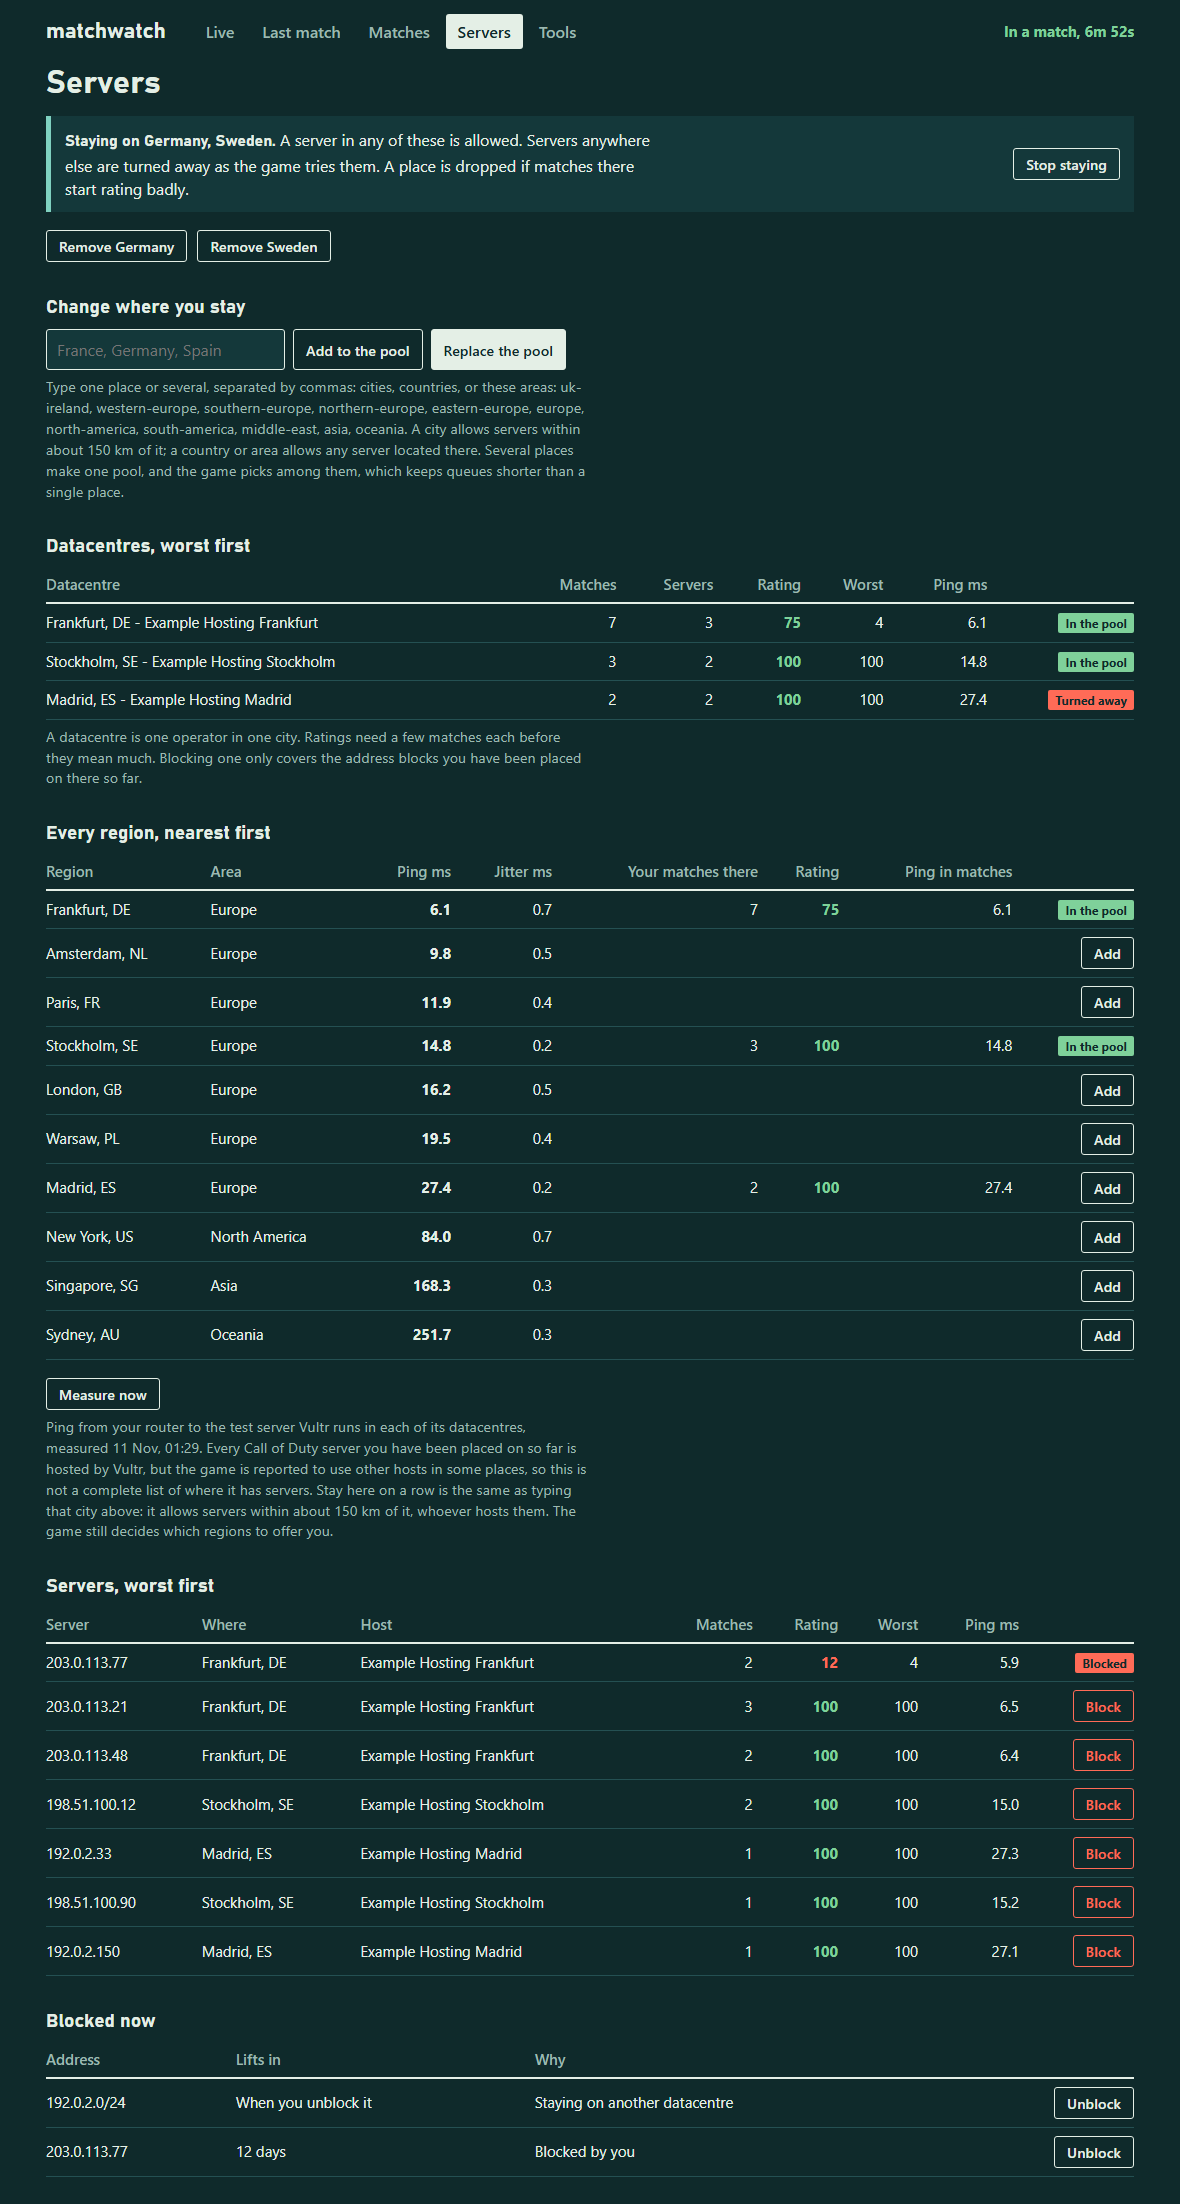
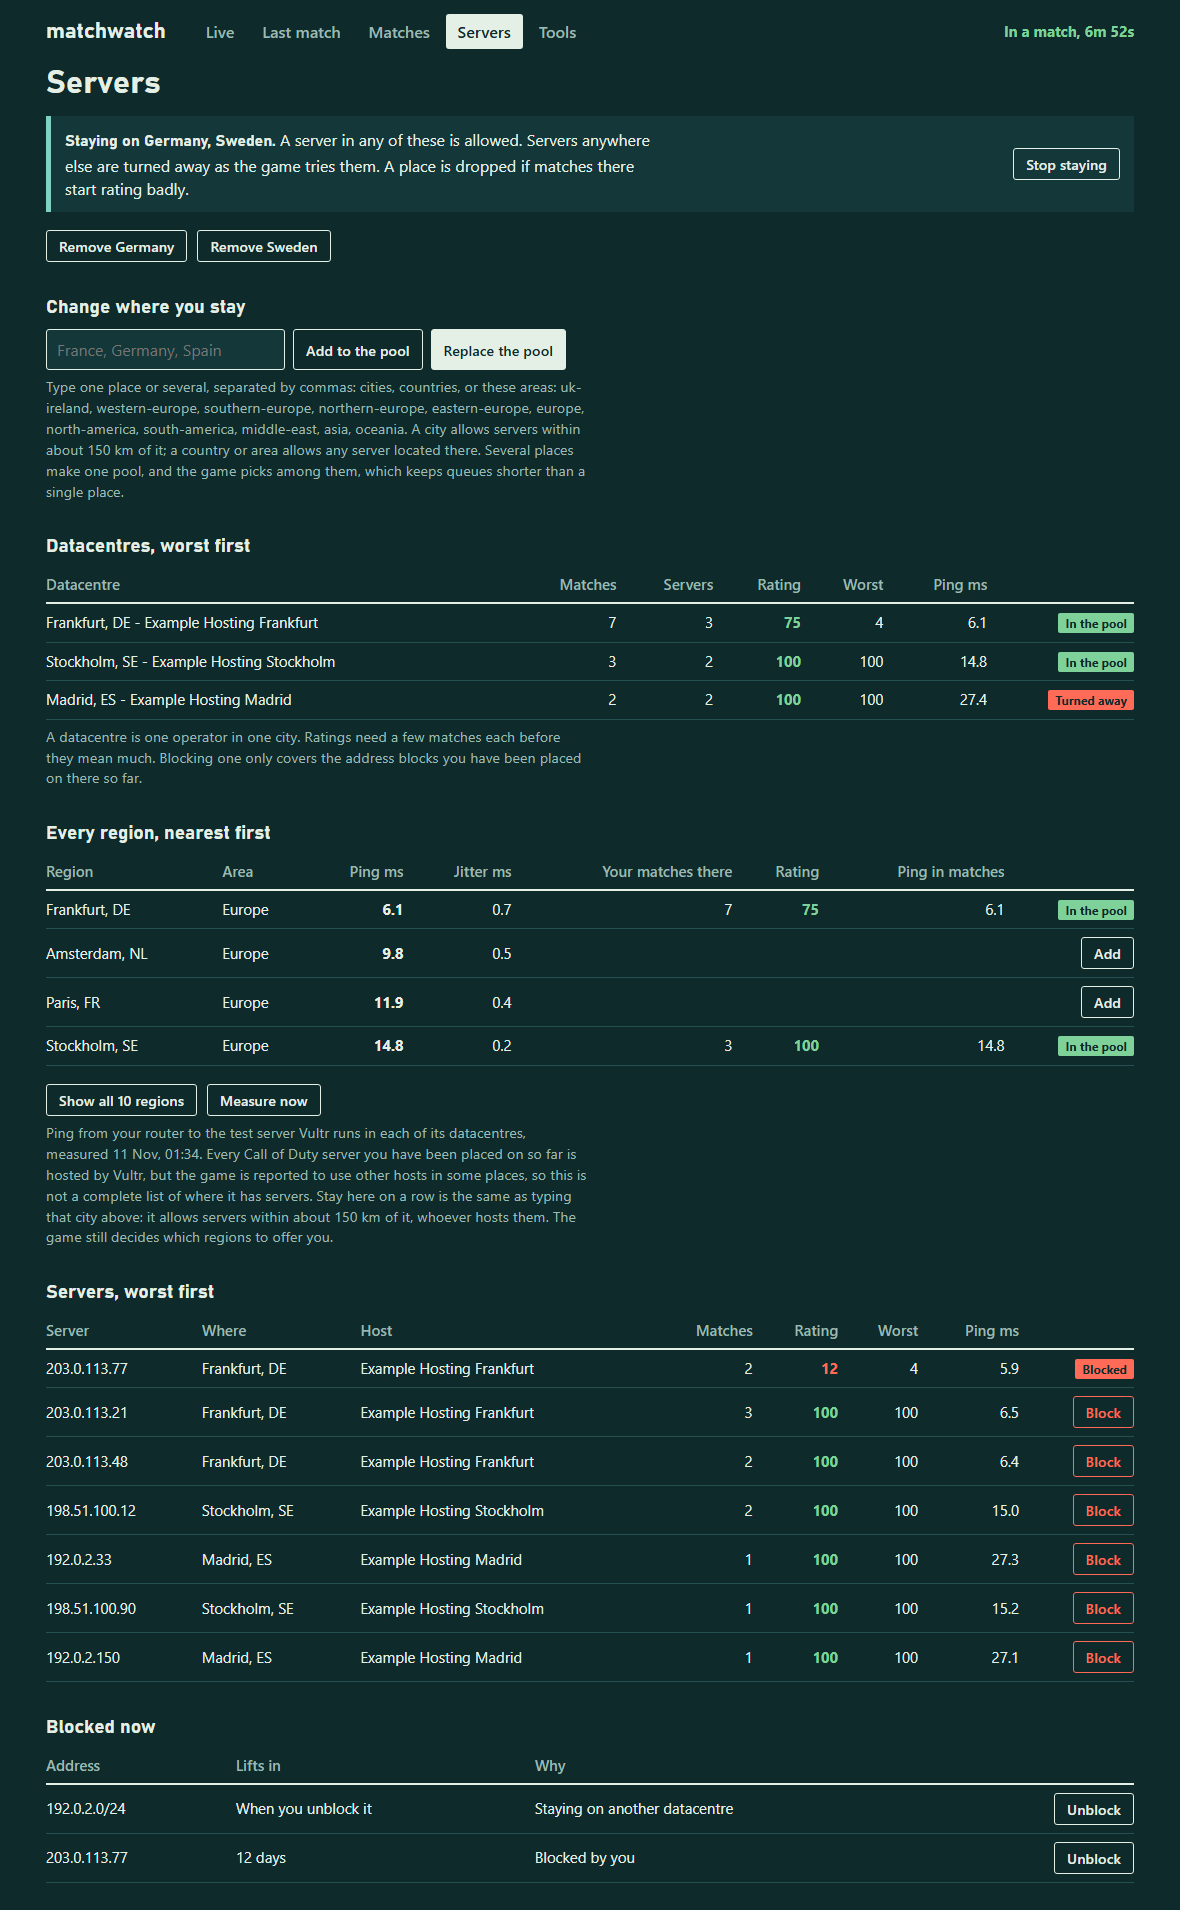
0.10.1: shorter region list, no scroll jump, match-started alert
- Servers page: the region table shows the nearest four, with a button
  to show all of them.
- The 15-second data refresh redrew the page and scrolled to the top.
  It now keeps the reader's place, and waits while the places box has
  text in it.
- New setting "Alert when a match starts": tells the phone when the
  game itself begins, with the server's location and ping.
- Screenshots regenerated from invented data.

diff --git a/luci-app-matchwatch/htdocs/luci-static/resources/matchwatch/dashboard.js b/luci-app-matchwatch/htdocs/luci-static/resources/matchwatch/dashboard.js
@@ -313,7 +313,7 @@ function pageMatch(id) {
 }
 
 // ---------- lists
-var gameFilter = "", hourFilter = -1;
+var gameFilter = "", hourFilter = -1, regionsAll = false;
 function hourOf(m) { return new Date(m.start * 1000).getHours(); }
 function hh(i) { return (i < 10 ? "0" : "") + i + ":00"; }
 function recap() {
@@ -444,14 +444,19 @@ function pageServers() {
 	if (!rg.length) view.appendChild(h("p", { cls: "empty", text: "Not measured yet." }));
 	else {
 		var tr = table([["Region"], ["Area"], ["Ping ms", "num"], ["Jitter ms", "num"], ["Your matches there", "num"], ["Rating", "num"], ["Ping in matches", "num"], ["", ""]]);
-		rg.forEach(function (r) {
+		(regionsAll ? rg : rg.slice(0, 4)).forEach(function (r) {
 			tr.lastChild.appendChild(row([[r.city + ", " + r.cc], [r.area], [r.ping == null ? "No reply" : fmt(r.ping, 1), "num s"], [r.jit == null ? "" : fmt(r.jit, 1), "num"],
 				[r.matches ? String(r.matches) : "", "num"], [r.rating == null ? "" : String(r.rating), "num s " + cls(r.rating)], [r.matchping == null ? "" : fmt(r.matchping, 1), "num"],
 				(function () { var td = h("td", { cls: "act" }); if (r.stay) td.appendChild(h("span", { cls: "tag keep", text: "In the pool" })); else if (r.ping != null && stays.length) td.appendChild(act("Add", "stayadd", null, { extra: "&region=" + r.code })); else if (r.ping != null) td.appendChild(act("Stay here", "stay", null, { extra: "&region=" + r.code, confirm: "Confirm: turn the others away" })); return td; })()]));
 		});
 		view.appendChild(h("div", { cls: "tablewrap" }, tr));
 	}
-	view.appendChild(h("div", { cls: "actions" }, act("Measure now", "regions", null, { done: function () { toast("Regions measured."); } })));
+	var more = null;
+	if (rg.length > 4) {
+		more = h("button", { type: "button", text: regionsAll ? "Show the nearest 4" : "Show all " + rg.length + " regions" });
+		more.addEventListener("click", function () { var y = window.scrollY; regionsAll = !regionsAll; pageServers(); window.scrollTo(0, y); });
+	}
+	view.appendChild(h("div", { cls: "actions" }, more, act("Measure now", "regions", null, { done: function () { toast("Regions measured."); } })));
 	view.appendChild(h("p", { cls: "note", text: "Ping from your router to the test server Vultr runs in each of its datacentres" + (rg.length ? ", measured " + when(rg[0].ts) : "") + ". Every Call of Duty server you have been placed on so far is hosted by Vultr, but the game is reported to use other hosts in some places, so this is not a complete list of where it has servers. Stay here on a row is the same as typing that city above: it allows servers within about 150 km of it, whoever hosts them. The game still decides which regions to offer you." }));
 	view.appendChild(h("h2", "Servers, worst first"));
 	if (!D.servers.length) view.appendChild(h("p", { cls: "empty", text: "No servers seen yet." }));
@@ -498,14 +503,14 @@ function pageTools() {
 }
 
 // ---------- routing and refresh
-function route() {
+function route(keep) { // keep === true: a redraw with fresh data, so stay where the reader is
 	var parts = (location.hash || "#/").replace(/^#\/?/, "").split("/");
 	page = parts[0] || "live"; pageArg = parts[1] || "";
 	if (["live", "match", "matches", "servers", "tools"].indexOf(page) < 0) page = "live";
 	Array.prototype.forEach.call(shadow.querySelectorAll("nav a"), function (a) { if (a.getAttribute("data-p") === page) a.setAttribute("aria-current", "page"); else a.removeAttribute("aria-current"); });
 	pageMatch.repaint = null;
 	if (page === "live") pageLive(); else if (page === "match") pageMatch(pageArg || "last"); else if (page === "matches") pageMatches(); else if (page === "servers") pageServers(); else pageTools();
-	window.scrollTo(0, 0);
+	if (keep !== true) window.scrollTo(0, 0);
 }
 function setState() {
 	var e = shadow.getElementById("state"), st = D.st, s = session();
@@ -515,9 +520,11 @@ function setState() {
 	else { e.className = ""; e.textContent = "Waiting for a match"; }
 }
 function tick() { get("status.json", function (st) { D.st = st; setState(); updateLive(); }); get("lobby.json", function (l) { D.lobby = l; }); }
+// half-typed text in the places box would be wiped by a redraw
+function typing() { var i = shadow.getElementById("place"); return !!(i && i.value); }
 function refresh(force) {
 	get("regions.json", function (x) { D.regions = x || []; });
-	var left = 5, done = function () { if (--left === 0 && (force || !armed) && page !== "live" && page !== "match" && page !== "tools") route(); else if (left === 0 && page === "live") { L.ip = null; updateLive(); } };
+	var left = 5, done = function () { if (--left === 0 && (force || (!armed && !typing())) && page !== "live" && page !== "match" && page !== "tools") route(true); else if (left === 0 && page === "live") { L.ip = null; updateLive(); } };
 	get("history.json", function (x) { D.hist = x || []; done(); });
 	get("servers.json", function (x) { D.servers = x || []; done(); });
 	get("datacentres.json", function (x) { D.dcs = x || []; done(); });

diff --git a/luci-app-matchwatch/htdocs/luci-static/resources/view/matchwatch/settings.js b/luci-app-matchwatch/htdocs/luci-static/resources/view/matchwatch/settings.js
@@ -70,6 +70,11 @@ return view.extend({
 			return (value === '' || /^https?:\/\/[^\s'"]+$/.test(value)) ? true : _('Enter a web address starting with http:// or https://');
 		};
 
+		o = s.taboption('alerts', form.Flag, 'notify_start', _('Alert when a match starts'),
+			_('Tells your phone the moment the game itself begins, with where the server is and the ping. Handy when you have stepped away during a long queue.'));
+		o.default = '0';
+		o.rmempty = false;
+
 		o = s.taboption('alerts', form.Flag, 'notify_every_match', _('Alert after every match'),
 			_('Off: only after bad matches and when you land on a server with a bad history.'));
 		o.default = '0';

diff --git a/test/mockshots.py b/test/mockshots.py
@@ -90,7 +90,7 @@ def build(site):
     blocks = [{"ip": DCS["mad"][5][0].rsplit(".", 1)[0] + ".0/24", "days": None, "reason": "stay"}, {"ip": "203.0.113.77", "days": 12, "reason": "manual"}]
     for s in servers: s["blocked"] = s["ip"] == "203.0.113.77"
     out = {"history": hist, "servers": servers, "datacentres": dlist, "regions": rj, "blocklist": blocks,
-           "info": {"version": "0.10.0", "device": "192.168.1.50", "stay": "Germany + Sweden", "autoblock": False, "notify": True, "pc_score": True, "geo": True, "block_days": 14, "stays": ["Germany", "Sweden"], "web": False}}
+           "info": {"version": "0.10.1", "device": "192.168.1.50", "stay": "Germany + Sweden", "autoblock": False, "notify": True, "pc_score": True, "geo": True, "block_days": 14, "stays": ["Germany", "Sweden"], "web": False}}
     d, u = timeline(120, "clean"); d[40], d[41], d[95] = 265.3, 98, 150; u[70] = 166
     p = [round(random.uniform(5.8, 6.4), 1) for _ in range(120)]; p[40], p[41] = 14.5, 9.0
     out["status"] = {"ts": NOW + 3600, "candidates": 0, "flows": 3, "sessions": [{"ip": "203.0.113.21", "port": 30120, "device": "192.168.1.50", "age": 412, "start": NOW - 412, "loc": "Frankfurt, DE", "org": "Example Hosting Frankfurt",

diff --git a/README.md b/README.md
@@ -1,6 +1,6 @@
 # MatchWatch
 
-**Judges every online match from your OpenWrt router — v0.10.0 (pre-release)**
+**Judges every online match from your OpenWrt router — v0.10.1 (pre-release)**
 
 > **OpenWrt only.** MatchWatch runs on a router with [OpenWrt](https://openwrt.org/) firmware and appears inside LuCI, OpenWrt's web interface. It does not run on Windows, macOS, a games console, or a router with its maker's stock firmware. Nothing is installed on your PC or console.
 
@@ -200,7 +200,7 @@ This only happens when you ask for it. If you already have rules named `Game_Out
 
 ## Phone alerts
 
-Install the ntfy app, subscribe to a hard-to-guess topic, and put `https://ntfy.sh/<your topic>` under Alerts in Settings. You get an alert when you land on a server with a bad history, and after bad matches.
+Install the ntfy app, subscribe to a hard-to-guess topic, and put `https://ntfy.sh/<your topic>` under Alerts in Settings. You get an alert when you land on a server with a bad history, and after bad matches. Turn on "Alert when a match starts" to also be told the moment the game itself begins, which helps if you step away during a long queue.
 
 ## Privacy and security
 

diff --git a/CLAUDE.md b/CLAUDE.md
@@ -1,6 +1,6 @@
 # matchwatch: notes for whoever works on this next
 
-matchwatch runs on an OpenWrt router and judges each online match: the game server, the route to it, the player's own line and their PC. It works from packet timing only and never alters game traffic. Version 0.10.0.
+matchwatch runs on an OpenWrt router and judges each online match: the game server, the route to it, the player's own line and their PC. It works from packet timing only and never alters game traffic. Version 0.10.1.
 
 ## Layout
 
